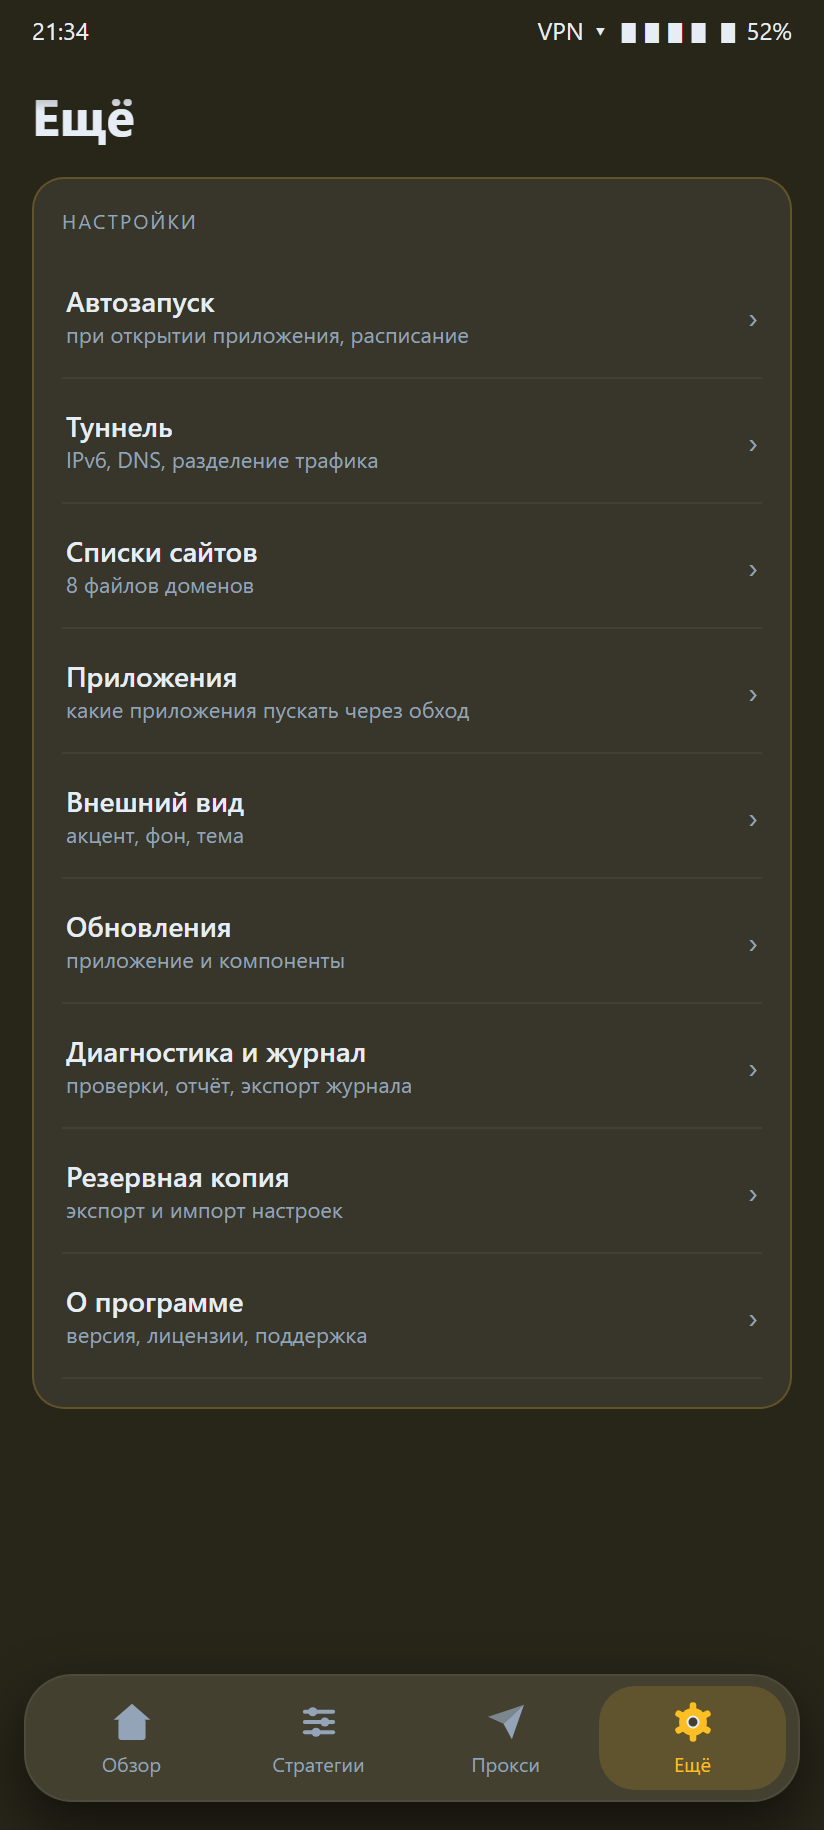
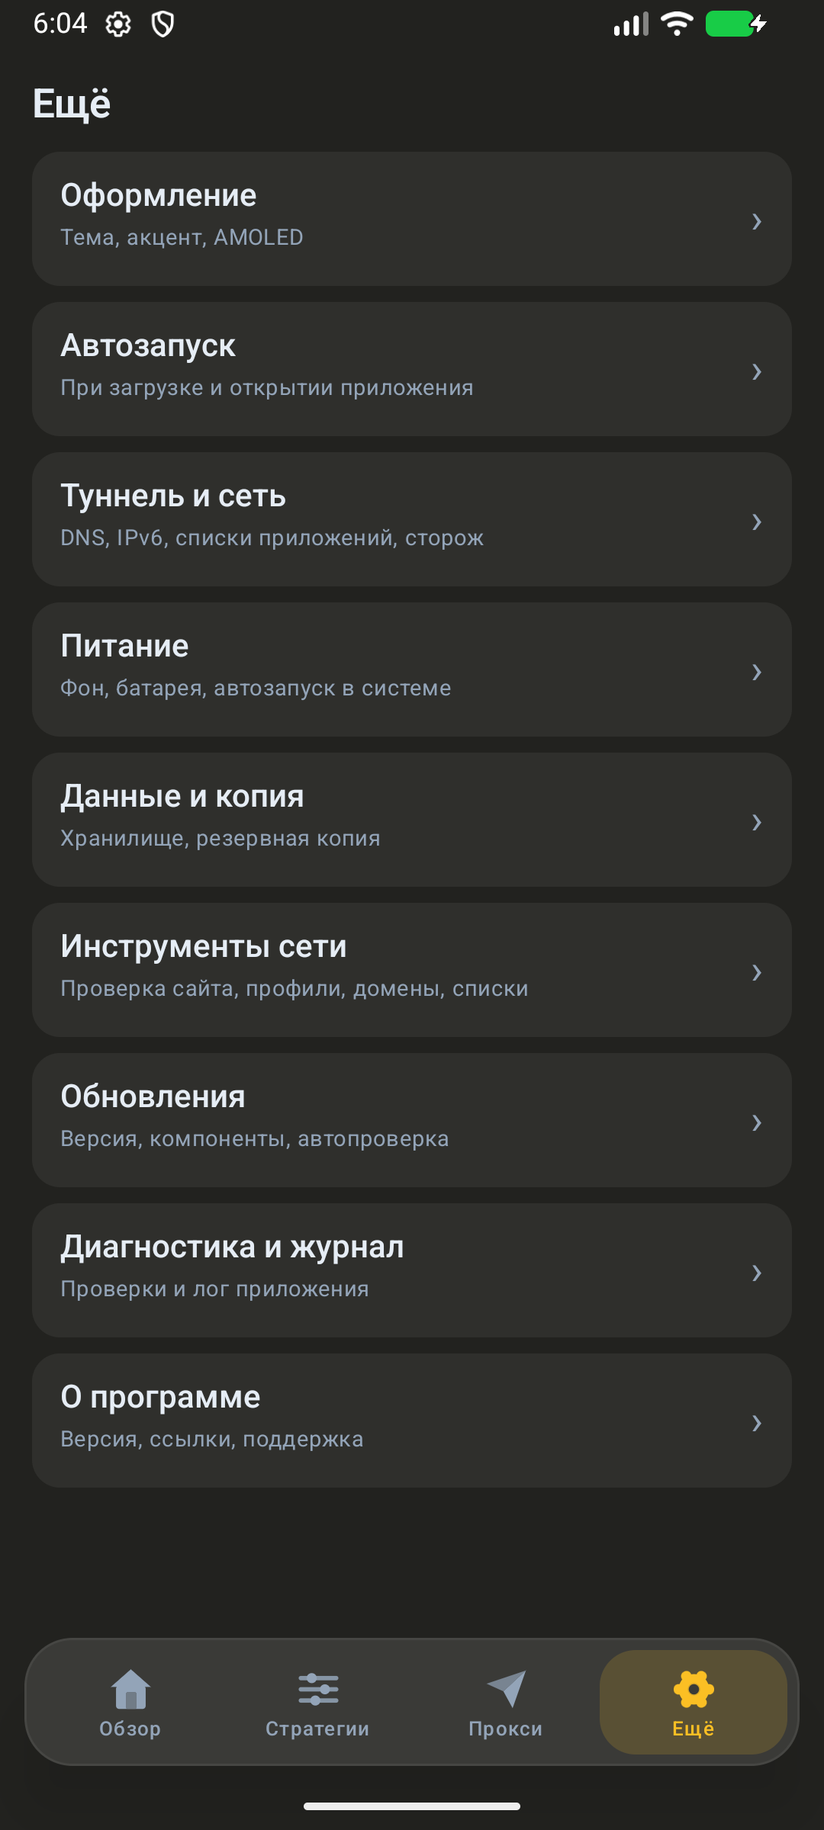
docs: настоящие скриншоты с эмулятора вместо макетов
* сняты на Android 16 (1080x2400, x86_64), тёмная тема, русская локаль:
  «Обзор», «Стратегии», «Прокси», «Ещё» — реальные экраны с данными приложения;
* для съёмки временно включался ABI x86_64 и отключался суффикс -debug,
  после снимков обе правки откатаны (в релизе снова только arm64/armeabi);
* docs/BUILD.md: инструкция, как повторить съёмку (ABI, локаль, тёмная тема, adb);
* version.txt/version-code.txt: 2.0.14 / 214 под раздел CHANGELOG.

diff --git a/docs/BUILD.md b/docs/BUILD.md
@@ -111,3 +111,28 @@ git submodule update --init --recursive
 | В debug-сборке Telegram пишет «Go-рантайм недоступен» | `libtgwsproxy.so` не собрана: Gradle предупреждает об этом при сборке, выполните `scripts/build-tgws.*` |
 | Android 15+: предупреждение о 16 КБ страницах | В CMake/ndk-build уже задано `-Wl,-z,max-page-size=16384` |
 
+## Скриншоты с эмулятора
+
+В релизных APK только `arm64-v8a` и `armeabi-v7a`, а образы эмулятора обычно `x86_64`.
+Чтобы снять скриншоты с работающего приложения, временно добавьте ABI:
+
+```kotlin
+// app/build.gradle.kts, внутри defaultConfig и splits
+abiFilters += listOf("arm64-v8a", "armeabi-v7a", "x86_64")
+include("arm64-v8a", "armeabi-v7a", "x86_64")
+```
+
+Дальше:
+
+```bash
+./gradlew :app:assembleDebug
+adb install -r app/build/outputs/apk/debug/app-x86_64-debug.apk
+adb shell cmd uimode night yes                       # тёмная тема
+adb shell cmd locale set-app-locales <pkg> --locales ru-RU
+adb shell am start -n <pkg>/io.github.robin19666.zapretmanager.ui.MainActivity
+adb exec-out screencap -p > shot.png
+```
+
+Go-библиотека Telegram-прокси для `x86_64` не собирается, поэтому на эмуляторе прокси
+не запустится — для снимков экранов это не мешает. После съёмки ABI нужно вернуть:
+в релизе лишний APK не нужен.

diff --git a/README.md b/README.md
@@ -20,9 +20,9 @@
   <img src="assets/screenshots/settings.png" width="156" alt="Настройки">
 </p>
 
-<sub>Макеты экранов в актуальной палитре и с реальными подписями; в приложении — те же разделы,
-детали оформления могут отличаться от макета. Нижнее меню — плавающая панель с собственными
-иконками, содержимое страниц прокручивается под ней и под статус-баром.</sub>
+<sub>Скриншоты сняты с работающего приложения на эмуляторе Android 16 (1080×2400, x86_64):
+тёмная тема, русская локаль, реальные данные экранов. Нижнее меню — плавающая панель
+с собственными иконками, содержимое страниц прокручивается под ней и под статус-баром.</sub>
 
 Продолжение десктопного [ZapretManager](https://github.com/RoBiN19666/ZapretManager-Desktop) на Android:
 те же принципы (стратегии, автообновления, диагностика), но с учётом мобильных ограничений —

diff --git a/docs/STORE.md b/docs/STORE.md
@@ -53,7 +53,8 @@ Zapret Manager — менеджер обхода блокировок для And
    проприетарных SDK нет. `material-icons-extended` — Apache 2.0.
 3. **Лицензия.** GPL-3.0 (`LICENSE`), совместима с F-Droid.
 4. **Политика конфиденциальности.** `PRIVACY.md` — данных не собираем.
-5. **Скриншоты.** `docs/screenshots/` (добавляются по мере обновления интерфейса).
+5. **Скриншоты.** `assets/screenshots/` — снимки с эмулятора Android 16
+   (тёмная тема, русская локаль), по одному на каждый раздел.
 6. **Метаданные.** Значок `app/src/main/res/mipmap-*/ic_launcher*`, версия в
    `version.txt`, код версии в `version-code.txt`, APK — `universal` для каталога.
 
